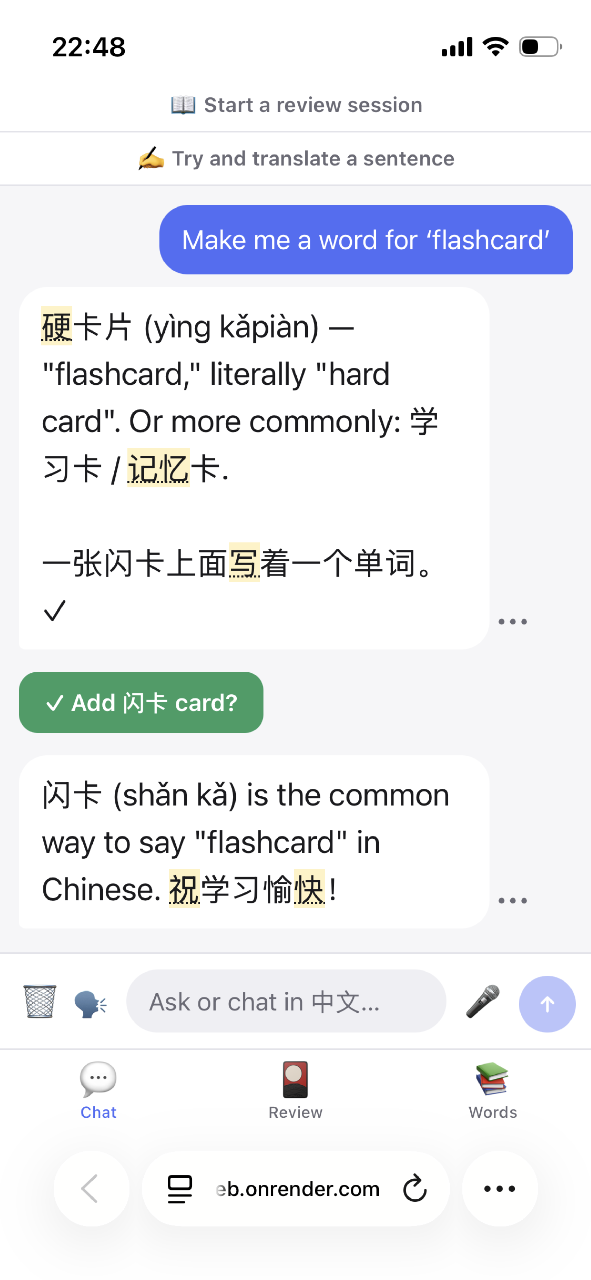
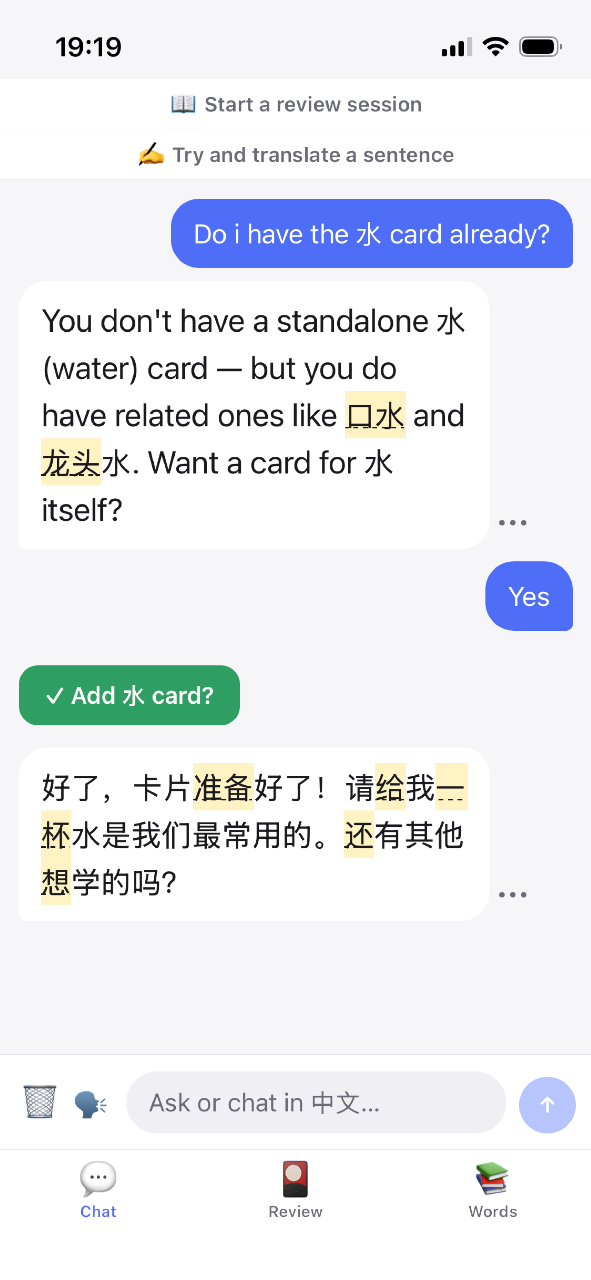
.

diff --git a/app/src/components/review/InputCard.tsx b/app/src/components/review/InputCard.tsx
@@ -104,7 +104,14 @@ function TypedInput({
       ) : null}
       <TextInput
         ref={inputRef}
-        style={[styles.answerInput, { backgroundColor: t.inputBg, color: t.text, fontSize }]}
+        // fontSize goes in its own object: an inline `fontSize: undefined` would
+        // override answerInput's size on native (RN's flattenStyle copies undefined
+        // keys) while react-native-web quietly ignores it — same code, two sizes.
+        style={[
+          styles.answerInput,
+          { backgroundColor: t.inputBg, color: t.text },
+          fontSize != null && { fontSize },
+        ]}
         value={answer}
         onChangeText={onEdit}
         placeholder={placeholder}

diff --git a/README.md b/README.md
@@ -2,15 +2,16 @@ MandarinBuddy is a Chinese learning app, built for iOs + web.
 It uses a Spaced Repetition flashcards system with an AI chatbot and helper.
 
 <p align="center">
-<img src="docs/chat.webp" alt="Chat" width="290" style="max-width: 32%;" />
-<img src="docs/review.webp" alt="Review" width="290" style="max-width: 32%;" />
-<img src="docs/words.webp" alt="Words" width="290" style="max-width: 32%;" />
+<img src="docs/chat.webp" alt="Chat" height="450"/>
+<img src="docs/review.webp" alt="Review" height="450"/>
+<img src="docs/words.webp" alt="Words" height="450"/>
+<img src="docs/settings.webp" alt="Settings" height="450"/>
 </p>
 
 # Tech stack
 
 <p align="center">
-  <img src="docs/stack.webp" alt="MandarinBuddy stack" style="max-width: 900px; width: 100%;" />
+  <img src="docs/stack.webp" alt="MandarinBuddy stack" style="max-width: 800px; width: 100%;" />
 </p>
 
 One TypeScript codebase, three parts:
@@ -23,29 +24,40 @@ Words and chat logs live in the same MongoDB (`words` and `chats` collection).
 
 # Features
 
-<p align="center">
-  <img src="docs/chat2.webp" alt="Chat" width="290" style="max-width: 32%;" />
-  <img src="docs/review2.webp" alt="Review" width="290" style="max-width: 32%;" />
-  <img src="docs/review3.webp" alt="Review" width="290" style="max-width: 32%;" />
-</p>
-
-Three tabs:
+Three main tabs: Chat, Review, Words.
 
 ## Chat
 
-AI for conversations, check the existing flashcards and make new ones.
+<img src="docs/chat2.webp" alt="Chat" height="450" align="left" />
+
+**Assistant AI**: Conversational and Utility caller. DeepSeek (`deepseek-chat`, OpenAI-compatible API) streamed over **SSE**. Ability to lookup existing flashcards or create new ones. A single system prompt covers both roles.
+
+**Vocab in the prompt**: words from the deck are supplied so the AI can target them.
+
+**SRS ↔ chat integration**: dictionary words in messages are highlighted — tap it to show its definition inline (counts as `conversation_missed`); words the user produce correctly earn `conversation_used` credit.
+
+<br clear="both" />
 
 ## Review
 
-**Settings**
+<img src="docs/review3.webp" alt="Review" height="450" align="left"/>
+<img src="docs/review2.webp" alt="Review" height="450" align="left" />
 
-<p align="center">
-  <img src="docs/settings.webp" alt="Settings" width="290" style="max-width: 32%;" />
-  <img src="docs/settings2.webp" alt="Settings" width="290" style="max-width: 32%;" />
-  <img src="docs/settings3.webp" alt="Settings" width="290" style="max-width: 32%;" />
-</p>
+**Review**: due words, scheduled by SRS. Two modes: Direct typing input, or just flip the card.
 
-</div>
+**Three Aspects**: for each word, Meaning, Reading and Writing.
+
+<br clear="both" />
+
+## 📚 Words screen
+
+<img src="docs/words2.webp" alt="Review" height="450" align="left"/>
+
+- CRUD (create, read, update, delete) the words
+- Search + color-coded interval buckets.
+- Per-word: schedule (interval/ease/lapses) + per-facet mastery readout
+
+<br clear="both" />
 
 ## Run it
 
@@ -58,9 +70,7 @@ npm start          # http://localhost:6767
 ```
 
 `server/.env` needs `MONGODB_URI` and `DEEPSEEK_API_KEY`
-(platform.deepseek.com — required only for the Chat tab; words/review
-work without it). Chat runs on DeepSeek's OpenAI-compatible API
-(`deepseek-chat`).
+(required for the Chat tab; words/review work without it). 
 
 **App** (terminal 2):
 
@@ -86,45 +96,25 @@ bundler — no config needed on the same WiFi. To point elsewhere, set
 
 ```sh
 launch the server
-cd v2/server && npm run dev
+cd server && npm run dev
 launch the app
-cd v2/app && npm start
+cd app && npm start
 ```
 
 ### env vars (server/.env — see .env.example)
 
-- MONGODB_URI — the v2 server uses this name, NOT the old site's ATLAS_URI
-- DEEPSEEK_API_KEY — powers the chat/tutor
-- APP_PASSWORD — optional write gate (above)
+```
+MONGODB_URI - DB access
+DEEPSEEK_API_KEY -
+APP_PASSWORD — optional gate
+```
 
-### server: `npm run dev` vs `npm start`
-
-- `npm run dev` = `tsx watch` — auto-restarts when you edit server code. use this while developing.
-- `npm start` = `tsx` (no watch) — loads the code once and holds it in memory. if you edit server code you MUST ctrl-c and relaunch
-- either way, `.env` (e.g. MONGODB_URI) is read only at boot — changing it needs a manual restart.
-
-## test on phone
+## Test on phone
 
 Install **Expo Go** from the App Store / Play Store, then run `./launch.sh` (or
-`cd v2/app && npm start`) and scan the QR code with your phone (same Wi-Fi as
+`cd app && npm start`) and scan the QR code with your phone (same Wi-Fi as
 your Mac). If it won't connect, use `./launch-tunnel.sh`.
 
-## How scheduling works
-
-Each word has **one** SRS state — `{due, intervalDays, ease, lapses}`, Anki's SM-2
-style. When the card comes due, the facet picker in `shared/src/srs.ts` chooses which
-of the three facets (meaning / reading / writing) to ask, based on per-facet
-`facets: {strength, asked}` — weakest facet most often, stronger ones still revisited.
-All tuning constants are in `shared/src/srs.ts` (`TUNING`). Grades:
-
-| grade                 | trigger                                     | effect                                                  |
-| --------------------- | ------------------------------------------- | ------------------------------------------------------- |
-| `reviewed_forgot`     | classic review "Forgot"                     | lapse: interval reset, ease −0.2, re-shown this session |
-| `reviewed_hard`       | classic review "Hard"                       | interval × 1.2, ease −0.15                              |
-| `reviewed_okay`       | classic review "Okay"                       | interval × ease, due pushed out                         |
-| `reviewed_easy`       | classic review "Easy"                       | interval × ease × 1.3 (min 4d), ease +0.15              |
-| `conversation_used`   | you typed a dictionary word in conversation | small bump on reading+writing (once/word/day)           |
-| `conversation_missed` | you tapped a gloss on a word the AI used    | meaning: interval halved, due now                       |
 
 # Game-ification
 

diff --git a/feature.md b/feature.md
@@ -1,18 +1,4 @@
-# MandarinBuddy v2 — Features
-
-Chinese vocab app: React Native (Expo SDK 54, iOS + web) · Hono + MongoDB server · shared TS package for SRS logic (unit-tested with vitest).
-
-## 💬 AI Chat — tutor + conversation partner (one thread)
-
-- DeepSeek (`deepseek-chat`, OpenAI-compatible API) streamed over **SSE**; a single system prompt covers both roles (word lookups vs Chinese small talk).
-- **Tools** the model can call:
-  - `propose_flashcard` — renders a one-tap card: compact "✓ Add 频率 card?" button → expands to an editable preview → saves to the deck.
-  - `lookup_card` — regex search of the real deck (hanzi/pinyin/English) so "do I already have X?" is never guessed.
-  - `end_review_mode` — only offered while a review is running; turns the app's review toggle off (via an SSE event) when the user asks to stop or the session peters out. Starting one is the user's tap only.
-- **Vocab in the prompt**: up to 500 deck words as `汉字 — gloss [weak]`, weakest/most-overdue first; pinyin omitted to save tokens; deterministic daily shuffle keeps the prompt cache-stable.
-- **SRS ↔ chat integration**: dictionary words in AI messages are highlighted — tap to reveal the gloss (counts as `conversation_missed`); words *you* produce correctly earn `conversation_used` credit (once per word per day).
-- Markdown `**bold**` / `*italic*` rendered; bubbles are selectable (long-press to copy).
-- **Review session** banner: AI drills weak/due words conversationally, corrects mistakes inline.
+# MandarinBuddy — Features
 
 ## 🗣 Voice
 
@@ -31,19 +17,19 @@ Chinese vocab app: React Native (Expo SDK 54, iOS + web) · Hono + MongoDB serve
 - Typed answers checked: pinyin with tones (**fuzzy toggle**: 2nd/3rd tone interchangeable) or exact hanzi.
 - Legacy 3-schedule data was merged in-place; every word keeps its pre-merge state in `srs_legacy` for rollback.
 
-## 🎉 Review gamification
+## How scheduling works
 
-- Background hue rotates + saturation ramps with every correct answer (random start hue per session; lightness fixed for readability).
-- Milestone takeover every 25 correct answers — escalating tiers: 25 colorful → 50 crazier → 100 craziest (confetti count/speed, rainbow cycle, haptics).
-- Forgot → card requeues within the session (unless it just became a leech).
+Each word has **one** SRS state — `{due, intervalDays, ease, lapses}`, Anki's SM-2
+style. When the card comes due, the facet picker in `shared/src/srs.ts` chooses which
+of the three facets (meaning / reading / writing) to ask, based on per-facet
+`facets: {strength, asked}` — weakest facet most often, stronger ones still revisited.
+All tuning constants are in `shared/src/srs.ts` (`TUNING`). Grades:
 
-## 📚 Words screen
-
-- Search + color-coded interval buckets (palette carried over from the old site) + 🐢 leech filter.
-- Per-word: schedule (interval/ease/lapses) + per-facet mastery readout, edit/reset/reactivate/delete.
-
-## ⚙ Plumbing worth knowing
-
-- `shared/` package: SRS algorithm + types used by both app and server, 37 unit tests.
-- Grades are saved per answer (`POST /api/review/grade`); failures surface in the UI instead of silently dropping progress.
-- Chat history persists in Mongo (last 30 turns sent as context); DeepSeek context caching is automatic.
+| grade                 | trigger                                     | effect                                                  |
+| --------------------- | ------------------------------------------- | ------------------------------------------------------- |
+| `reviewed_forgot`     | classic review "Forgot"                     | lapse: interval reset, ease −0.2, re-shown this session |
+| `reviewed_hard`       | classic review "Hard"                       | interval × 1.2, ease −0.15                              |
+| `reviewed_okay`       | classic review "Okay"                       | interval × ease, due pushed out                         |
+| `reviewed_easy`       | classic review "Easy"                       | interval × ease × 1.3 (min 4d), ease +0.15              |
+| `conversation_used`   | you typed a dictionary word in conversation | small bump on reading+writing (once/word/day)           |
+| `conversation_missed` | you tapped a gloss on a word the AI used    | meaning: interval halved, due now                       |
